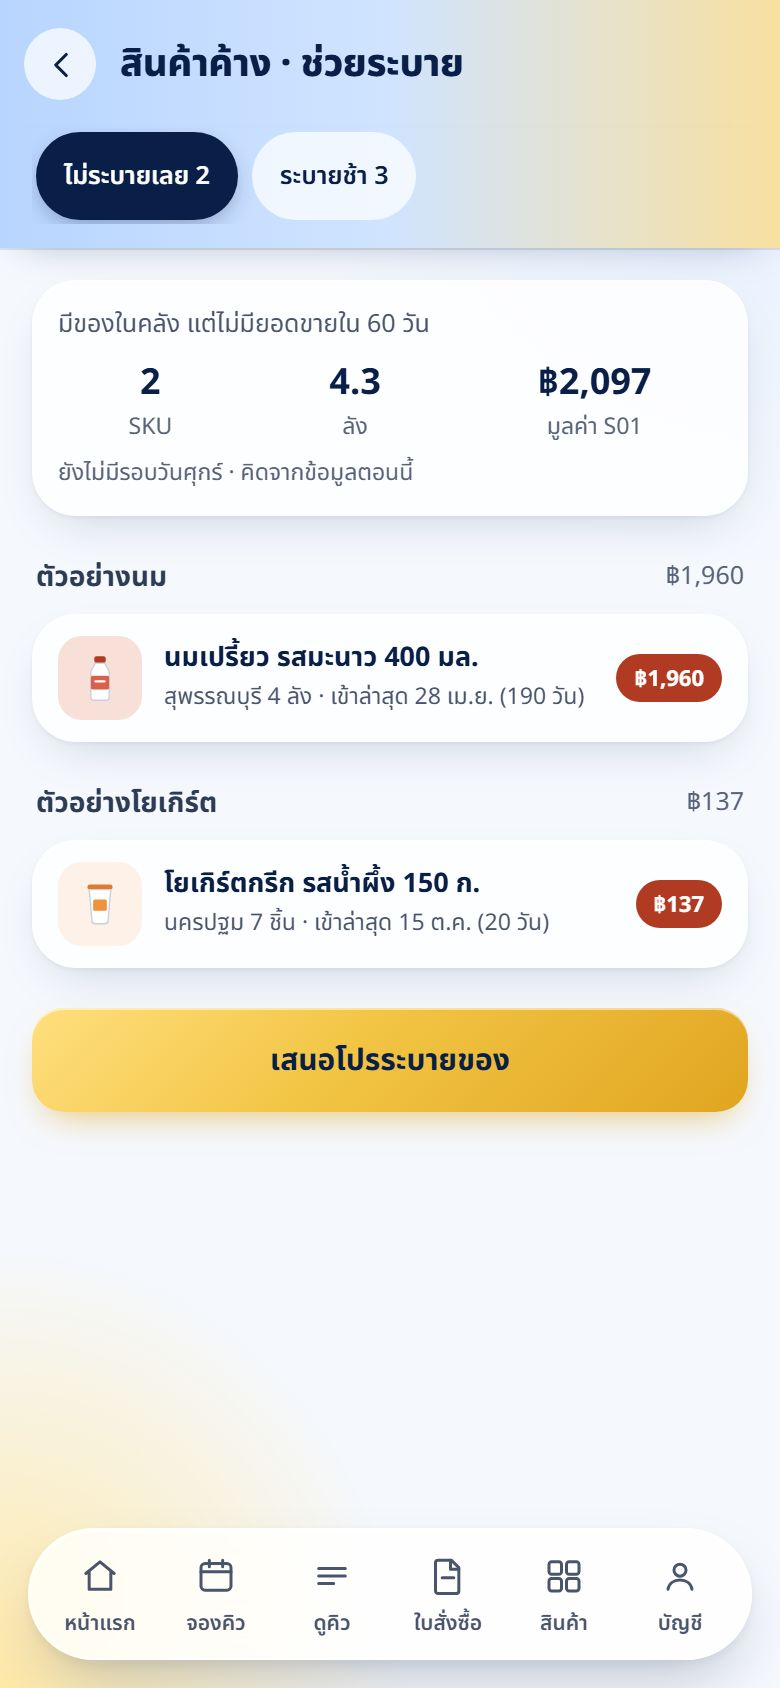
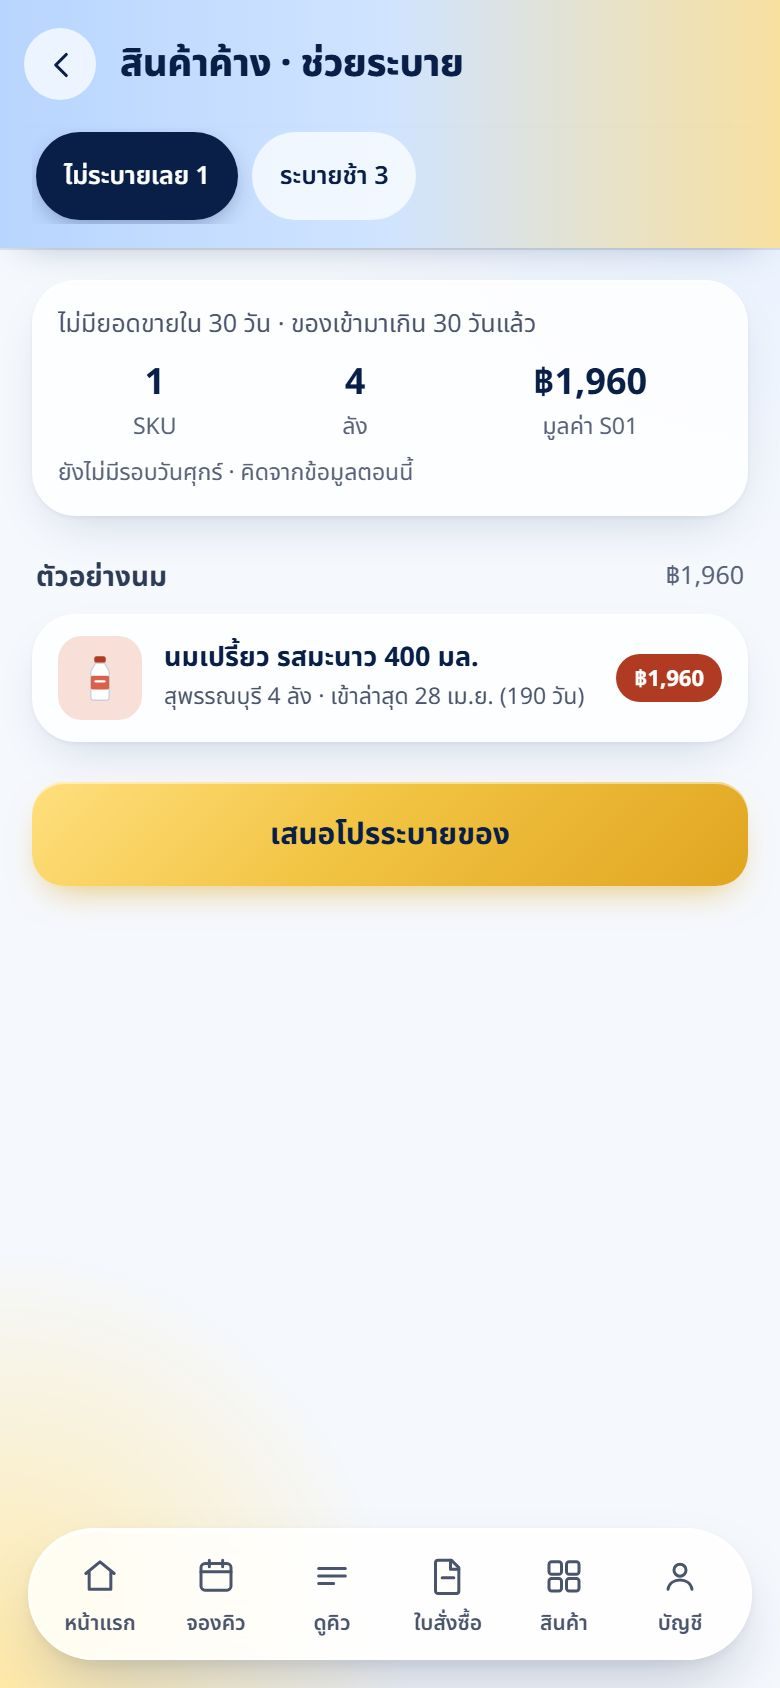
SupplyLink v1.74.0: สินค้าไม่ระบาย = ไม่มียอดขาย 30 วัน + ของเข้ามาเกิน 30 วัน · คู่มือซัพ v1.6.1 / จัดซื้อ v1.4.1

diff --git a/supplylink-buyer-guide.html b/supplylink-buyer-guide.html
@@ -3,7 +3,7 @@
 <head>
 <meta charset="utf-8">
 <meta name="viewport" content="width=device-width,initial-scale=1,viewport-fit=cover">
-<title>คู่มือจัดซื้อ SupplyLink v1.4.0</title>
+<title>คู่มือจัดซื้อ SupplyLink v1.4.1</title>
 <link rel="preconnect" href="https://fonts.googleapis.com">
 <link href="https://fonts.googleapis.com/css2?family=Noto+Sans+Thai:wght@400;500;600;700&display=swap" rel="stylesheet">
 <style>
@@ -192,7 +192,7 @@ button{font:inherit;cursor:pointer}
 
 <script>
 (function () {
-  var VER = 'v1.4.0', APP = 'rattana-supplylink.html';
+  var VER = 'v1.4.1', APP = 'rattana-supplylink.html';
   var IMG = {"bb":"supplylink-buyer-guide/bb.jpg","bcl":"supplylink-buyer-guide/bcl.jpg","bclo":"supplylink-buyer-guide/bclo.jpg","bclp":"supplylink-buyer-guide/bclp.jpg","bcls":"supplylink-buyer-guide/bcls.jpg","bd":"supplylink-buyer-guide/bd.jpg","bdc":"supplylink-buyer-guide/bdc.jpg","bdh":"supplylink-buyer-guide/bdh.jpg","bdn":"supplylink-buyer-guide/bdn.jpg","bdr":"supplylink-buyer-guide/bdr.jpg","bdw":"supplylink-buyer-guide/bdw.jpg","bh":"supplylink-buyer-guide/bh.jpg","binc":"supplylink-buyer-guide/binc.jpg","boa":"supplylink-buyer-guide/boa.jpg","bob":"supplylink-buyer-guide/bob.jpg","boc":"supplylink-buyer-guide/boc.jpg","bod":"supplylink-buyer-guide/bod.jpg","boe":"supplylink-buyer-guide/boe.jpg","bpd":"supplylink-buyer-guide/bpd.jpg","bpo":"supplylink-buyer-guide/bpo.jpg","bpr":"supplylink-buyer-guide/bpr.jpg","bq":"supplylink-buyer-guide/bq.jpg","brv":"supplylink-buyer-guide/brv.jpg","brvb":"supplylink-buyer-guide/brvb.jpg","brvo":"supplylink-buyer-guide/brvo.jpg","btc":"supplylink-buyer-guide/btc.jpg","bvt":"supplylink-buyer-guide/bvt.jpg","dwa":"supplylink-buyer-guide/dwa.jpg"}, RECTS = {"bb":{"drafts":[16,320,358,74],"review":[16,468,358,74],"incrv":[16,542,358,74],"claims":[16,246,358,74],"prop":[16,616,358,74],"tabbuyer":[319,765,50,64]},"bcl":{"due":[19,215,69,44],"sup":[90,215,69,44],"pay":[161,215,69,44],"calc":[30,474,330,44]},"bclo":{"save":[98,631,250,44]},"bclp":{"paid":[30,504,151,44]},"bcls":{"send":[107,511,99,44]},"bd":{"row":[16,371,358,180],"send":[276,776,92,46]},"bdc":{"diff":[187,90,74,44],"sendpo":[30,396,330,44]},"bdh":{"dw":[16,172,358,74]},"bdn":{"remind":[30,398,149,44]},"bdr":{"xls":[268,776,100,46],"row":[16,361,358,316]},"bdw":{"ok":[152,454,208,44],"back":[30,454,114,44]},"bh":{"mine":[18,102,85,44],"pend":[16,174,174,111],"rv":[200,174,174,111],"late":[16,295,174,111],"qt":[200,295,174,111],"nob":[16,425,358,74],"tabhome":[21,765,50,64],"tabqueue":[120,765,50,64],"tabpo":[170,765,50,64],"tabproducts":[220,765,50,64],"tabbuyer":[319,765,50,64]},"binc":{"row":[16,265,358,305],"camp":[30,406,330,46],"ok":[173,514,187,44],"no":[30,514,133,44]},"boa":{"ob":[16,98,358,74]},"bob":{"row":[16,137,358,91]},"boc":{"docs":[16,267,358,173],"q":[53,502,309,26]},"bod":{"pick":[16,321,358,56],"rev":[16,525,358,44],"new":[16,433,358,58],"ok":[169,682,205,52],"no":[16,682,143,52]},"boe":{"pick":[16,170,358,56],"wh":[16,446,358,99],"ok":[169,682,205,52]},"bpd":{"back":[12,34,36,36]},"bpo":{"card":[16,268,358,107]},"bpr":{"row":[16,378,358,80],"pdf":[297,399,65,38]},"bq":{"row":[16,268,358,114],"meet":[117,204,79,44]},"brv":{"row":[64,276,310,128],"done":[105,92,87,44]},"brvb":{"ok":[169,682,205,52],"no":[16,682,143,52],"note":[30,550,330,68]},"brvo":{"diff":[16,103,358,172]},"btc":{"pick":[16,389,358,56],"chip":[295,398,66,20],"q":[53,262,275,26]},"bvt":{"wh":[29,286,332,99],"rev":[29,393,114,44],"q":[53,106,309,26]},"dwa":{"q":[54,92,308,26],"wait":[102,140,112,44],"row":[16,214,358,141]}};                                       /* แทนด้วยรูปตอน build */
   var HAND = '<svg class="hand" viewBox="0 0 48 48" aria-hidden="true"><path d="M19 6c2 0 3.5 1.6 3.5 3.6V22l1-.1V18c0-2 1.6-3.4 3.4-3.4S30.3 16 30.3 18v4.4l1-.1v-2.6c0-1.9 1.5-3.3 3.3-3.3s3.3 1.5 3.3 3.3v3.6l.8-.1c1.8 0 3.3 1.5 3.3 3.3V34c0 6.6-5.4 12-12 12h-3.4c-3.8 0-7.4-1.8-9.6-4.9L8.5 30.6c-1-1.4-.7-3.4.7-4.4 1.4-1 3.3-.8 4.4.5l2 2.4V9.6C15.6 7.6 17.1 6 19 6z" fill="#fff" stroke="#0A1F47" stroke-width="2.4" stroke-linejoin="round"/></svg>';
   var FLOWCARD = function () {                              /* ส่งแล้วเกิดอะไรขึ้น: ซัพตอบ → จัดซื้อยืนยัน → เปิด PO จริง */
@@ -282,7 +282,7 @@ button{font:inherit;cursor:pointer}
       { img:'bdh', r:'@bdh.dw', h:'จัดซื้อ › ของเสียค้าง', d:'ทุกวันพุธระบบเก็บสรุปของเสียบริษัทละ 1 แถว (กี่ SKU · กี่บาท · ท็อป 3) ลงแท็บ Defect Weekly' },
       { img:'dwa', r:'@dwa.wait', h:'ค้าง ยังไม่ตอบ', d:'ของเดิมสัปดาห์ก่อนยังไม่เคลียร์ = ซัพต้องตอบเหตุผลในแอป · ตอบแล้วได้การ์ด LINE ทันที' },
       { img:'dwa', r:'@dwa.row', h:'แตะบริษัท', d:'เปิดหน้าของเสียของบริษัทนั้น เห็นเหตุผลที่ซัพตอบ + ประวัติทุกสัปดาห์' },
-      { html:function () { return INFO('ทุกวันศุกร์ 08:00', [['การ์ดที่ 1 · ไม่ระบายเลย', 'มีของแต่ไม่มียอดขาย 60 วัน (เช็คยอดรัตนมาร์ทซ้ำ)'], ['การ์ดที่ 2 · ระบายช้า', 'พอขายเกิน 30 วัน'], ['มูลค่า', 'ลัง × ราคาส่ง S01 · ท็อป 5 ตามมูลค่า'], ['ซัพเห็นในแอป', 'หน้าแรก › สินค้าค้าง · เซลเห็นเฉพาะคลังที่ดูแล']]); }, el:'lbtn', notip:true,
+      { html:function () { return INFO('ทุกวันศุกร์ 08:00', [['การ์ดที่ 1 · ไม่ระบายเลย', 'ไม่มียอดขาย 30 วัน (ขายส่งทุกคลัง + รัตนมาร์ท) และของเข้ามาเกิน 30 วัน'], ['การ์ดที่ 2 · ระบายช้า', 'พอขายเกิน 30 วัน'], ['มูลค่า', 'ลัง × ราคาส่ง S01 · ท็อป 5 ตามมูลค่า'], ['ซัพเห็นในแอป', 'หน้าแรก › สินค้าค้าง · เซลเห็นเฉพาะคลังที่ดูแล']]); }, el:'lbtn', notip:true,
         h:'สินค้าค้างวันศุกร์', d:'แตะ "เข้าใจแล้ว"' },
       { html:function () { return INFO('ห้ามบอกซัพ', [['เงื่อนไขรับคืน / เคลม', 'ไม่บอกนโยบายการคืนของกับซัพในแอป ให้ซัพนัดเคลียร์ตามปกติ'], ['รหัสคลัง', 'ซัพเห็นชื่อคลัง (สมุทรสงคราม · สุพรรณบุรี …) ไม่เห็น W1–W4/C4']]); }, el:'lbtn', notip:true,
         h:'เรื่องที่ซัพไม่เห็น', d:'แตะ "เข้าใจแล้ว"' }

diff --git a/supplylink-guide.html b/supplylink-guide.html
@@ -3,7 +3,7 @@
 <head>
 <meta charset="utf-8">
 <meta name="viewport" content="width=device-width,initial-scale=1,viewport-fit=cover">
-<title>ฝึกใช้ SupplyLink v1.6.0</title>
+<title>ฝึกใช้ SupplyLink v1.6.1</title>
 <link rel="preconnect" href="https://fonts.googleapis.com">
 <link href="https://fonts.googleapis.com/css2?family=Noto+Sans+Thai:wght@400;500;600;700&display=swap" rel="stylesheet">
 <style>
@@ -138,7 +138,7 @@ button{font:inherit;cursor:pointer}
 
 <script>
 (function () {
-  var VER = 'v1.6.0', APP = 'https://liff.line.me/2011693023-xbdsN1K7';
+  var VER = 'v1.6.1', APP = 'https://liff.line.me/2011693023-xbdsN1K7';
   var IMG = {"h0":"supplylink-guide/h0.jpg","hinc":"supplylink-guide/hinc.jpg","hdef":"supplylink-guide/hdef.jpg","hpo":"supplylink-guide/hpo.jpg","s2":"supplylink-guide/s2.jpg","s4":"supplylink-guide/s4.jpg","s5":"supplylink-guide/s5.jpg","s6":"supplylink-guide/s6.jpg","s7":"supplylink-guide/s7.jpg","s9":"supplylink-guide/s9.jpg","s10":"supplylink-guide/s10.jpg","s11":"supplylink-guide/s11.jpg","z1":"supplylink-guide/z1.jpg","zm":"supplylink-guide/zm.jpg","zt":"supplylink-guide/zt.jpg","zs":"supplylink-guide/zs.jpg","zi":"supplylink-guide/zi.jpg","q1":"supplylink-guide/q1.jpg","q2":"supplylink-guide/q2.jpg","q3":"supplylink-guide/q3.jpg","q4":"supplylink-guide/q4.jpg","q5":"supplylink-guide/q5.jpg","q6":"supplylink-guide/q6.jpg","q7":"supplylink-guide/q7.jpg","q8":"supplylink-guide/q8.jpg","x1":"supplylink-guide/x1.jpg","x2":"supplylink-guide/x2.jpg","x3":"supplylink-guide/x3.jpg","x4":"supplylink-guide/x4.jpg","x5":"supplylink-guide/x5.jpg","x6":"supplylink-guide/x6.jpg","x7":"supplylink-guide/x7.jpg","a2":"supplylink-guide/a2.jpg","a3":"supplylink-guide/a3.jpg","a5":"supplylink-guide/a5.jpg","d2":"supplylink-guide/d2.jpg","a4":"supplylink-guide/a4.jpg","d3":"supplylink-guide/d3.jpg","d4":"supplylink-guide/d4.jpg","p1":"supplylink-guide/p1.jpg","p1b":"supplylink-guide/p1b.jpg","b2":"supplylink-guide/b2.jpg","b3":"supplylink-guide/b3.jpg","p5":"supplylink-guide/p5.jpg","c2":"supplylink-guide/c2.jpg","c3":"supplylink-guide/c3.jpg","k1":"supplylink-guide/k1.jpg","k2":"supplylink-guide/k2.jpg","k3":"supplylink-guide/k3.jpg","k4":"supplylink-guide/k4.jpg","k5":"supplylink-guide/k5.jpg","k6":"supplylink-guide/k6.jpg","k7":"supplylink-guide/k7.jpg","k9":"supplylink-guide/k9.jpg","k10":"supplylink-guide/k10.jpg","k11":"supplylink-guide/k11.jpg","n1":"supplylink-guide/n1.jpg","n2":"supplylink-guide/n2.jpg","n3":"supplylink-guide/n3.jpg","n4":"supplylink-guide/n4.jpg","n5":"supplylink-guide/n5.jpg","n6":"supplylink-guide/n6.jpg","n7":"supplylink-guide/n7.jpg","n8":"supplylink-guide/n8.jpg","n9":"supplylink-guide/n9.jpg","g1":"supplylink-guide/g1.jpg","g2":"supplylink-guide/g2.jpg","g3":"supplylink-guide/g3.jpg","g4":"supplylink-guide/g4.jpg","m1":"supplylink-guide/m1.jpg","m2":"supplylink-guide/m2.jpg","m3":"supplylink-guide/m3.jpg","m4":"supplylink-guide/m4.jpg","m5":"supplylink-guide/m5.jpg","f1":"supplylink-guide/f1.jpg","f2":"supplylink-guide/f2.jpg","f3":"supplylink-guide/f3.jpg","f4":"supplylink-guide/f4.jpg","dws":"supplylink-guide/dws.jpg","dwh":"supplylink-guide/dwh.jpg","stk":"supplylink-guide/stk.jpg","stk2":"supplylink-guide/stk2.jpg","stkh":"supplylink-guide/stkh.jpg"};                                       /* แทนด้วยรูปตอน build */
   var HAND = '<svg class="hand" viewBox="0 0 48 48" aria-hidden="true"><path d="M19 6c2 0 3.5 1.6 3.5 3.6V22l1-.1V18c0-2 1.6-3.4 3.4-3.4S30.3 16 30.3 18v4.4l1-.1v-2.6c0-1.9 1.5-3.3 3.3-3.3s3.3 1.5 3.3 3.3v3.6l.8-.1c1.8 0 3.3 1.5 3.3 3.3V34c0 6.6-5.4 12-12 12h-3.4c-3.8 0-7.4-1.8-9.6-4.9L8.5 30.6c-1-1.4-.7-3.4.7-4.4 1.4-1 3.3-.8 4.4.5l2 2.4V9.6C15.6 7.6 17.1 6 19 6z" fill="#fff" stroke="#0A1F47" stroke-width="2.4" stroke-linejoin="round"/></svg>';
   var FLOWCARD = function () {                              /* ส่งแล้วเกิดอะไรขึ้น: ซัพตอบ → จัดซื้อยืนยัน → เปิด PO จริง */
@@ -253,7 +253,7 @@ button{font:inherit;cursor:pointer}
     ], end:'นัดที่ส่งแล้วดูได้ที่หน้าของเสีย · เปลี่ยนวันได้จากการ์ดนัด' },
     { k:'stuck', t:'สินค้าค้าง · ช่วยระบาย', g:'สินค้าค้าง', s:'การ์ดวันศุกร์ · ไม่ระบาย · ระบายช้า', n:4, steps:[
       { img:'stkh', r:[16, 388, 358, 74], h:'หน้าแรก › สินค้าค้าง', d:'ทุกวันศุกร์ได้ 2 การ์ดใน LINE · ดูในแอปที่แถว "สินค้าค้าง · ช่วยระบาย"' },
-      { img:'stk', r:[16, 140, 358, 118], h:'ไม่ระบายเลย', d:'มีของในคลังแต่ไม่มียอดขายใน 60 วัน · รวมกี่ SKU กี่ลัง มูลค่าตามราคาส่ง' },
+      { img:'stk', r:[16, 140, 358, 118], h:'ไม่ระบายเลย', d:'ไม่มียอดขายใน 30 วัน และของเข้ามาเกิน 30 วันแล้ว (ของเพิ่งเข้ายังไม่นับ) · รวมกี่ SKU กี่ลัง มูลค่าตามราคาส่ง' },
       { img:'stk', r:[126, 66, 82, 44], h:'ระบายช้า', d:'แตะแท็บนี้ = ของที่พอขายเกิน 30 วัน' },
       { img:'stk2', r:[16, 307, 358, 91], h:'แตะสินค้า', d:'เปิดหน้าสินค้านั้น ดูสต็อกรายคลังและราคา · อยากระบายกด "เสนอโปรระบายของ"' }
     ], end:'ตัวเลขในแอปตรงกับการ์ดวันศุกร์ใน LINE · แตะสินค้าในการ์ดก็เปิดหน้าสินค้านั้นได้เลย' },
@@ -351,7 +351,7 @@ button{font:inherit;cursor:pointer}
     stuck:[
       { img:'stk', r:[126, 66, 82, 44], q:'อยากดูของที่พอขายเกิน 30 วัน แตะตรงไหน', ok:'แท็บ "ระบายช้า"', hint:'แถบบนสุด' },
       { q:'"ไม่ระบายเลย" คืออะไร?', opts:[
-        { t:'มีของในคลัง แต่ไม่มียอดขายใน 60 วัน', ok:1, why:'ระบบเช็คยอดขายรัตนมาร์ทซ้ำด้วย ขายได้แม้ชิ้นเดียวย้ายไประบายช้า' },
+        { t:'ไม่มียอดขายใน 30 วัน และของเข้ามาเกิน 30 วันแล้ว', ok:1, why:'ระบบเช็คยอดขายรัตนมาร์ทซ้ำด้วย ขายได้แม้ชิ้นเดียวย้ายไประบายช้า' },
         { t:'ของหมดสต็อก', why:'ของหมดไม่ขึ้นในหน้านี้' },
         { t:'ของเสียในคลัง', why:'ของเสียอยู่หน้าของเสีย' }] }],
     defect:[
